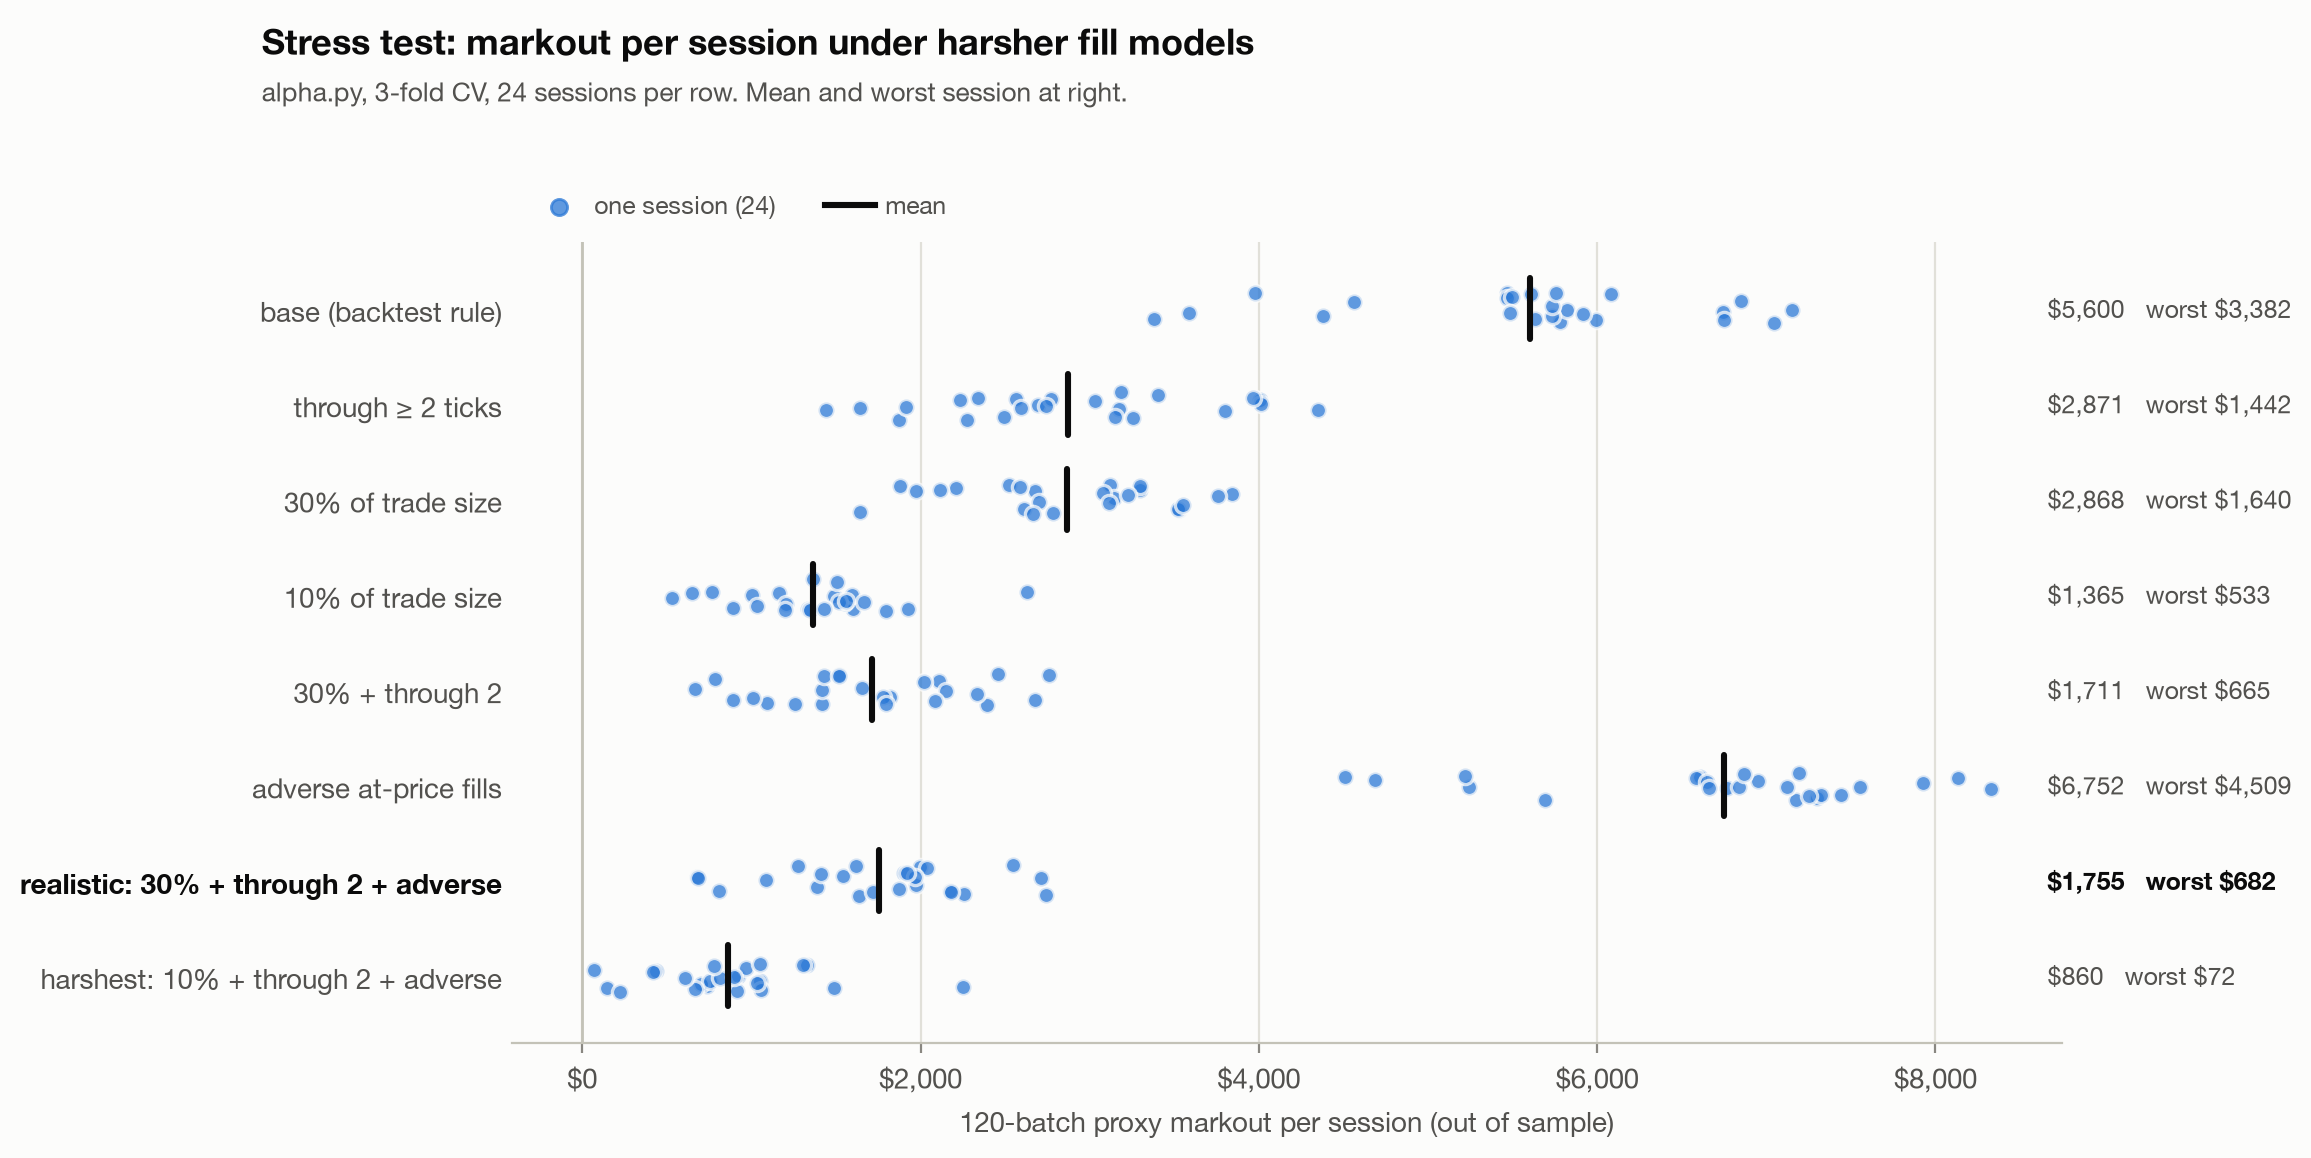
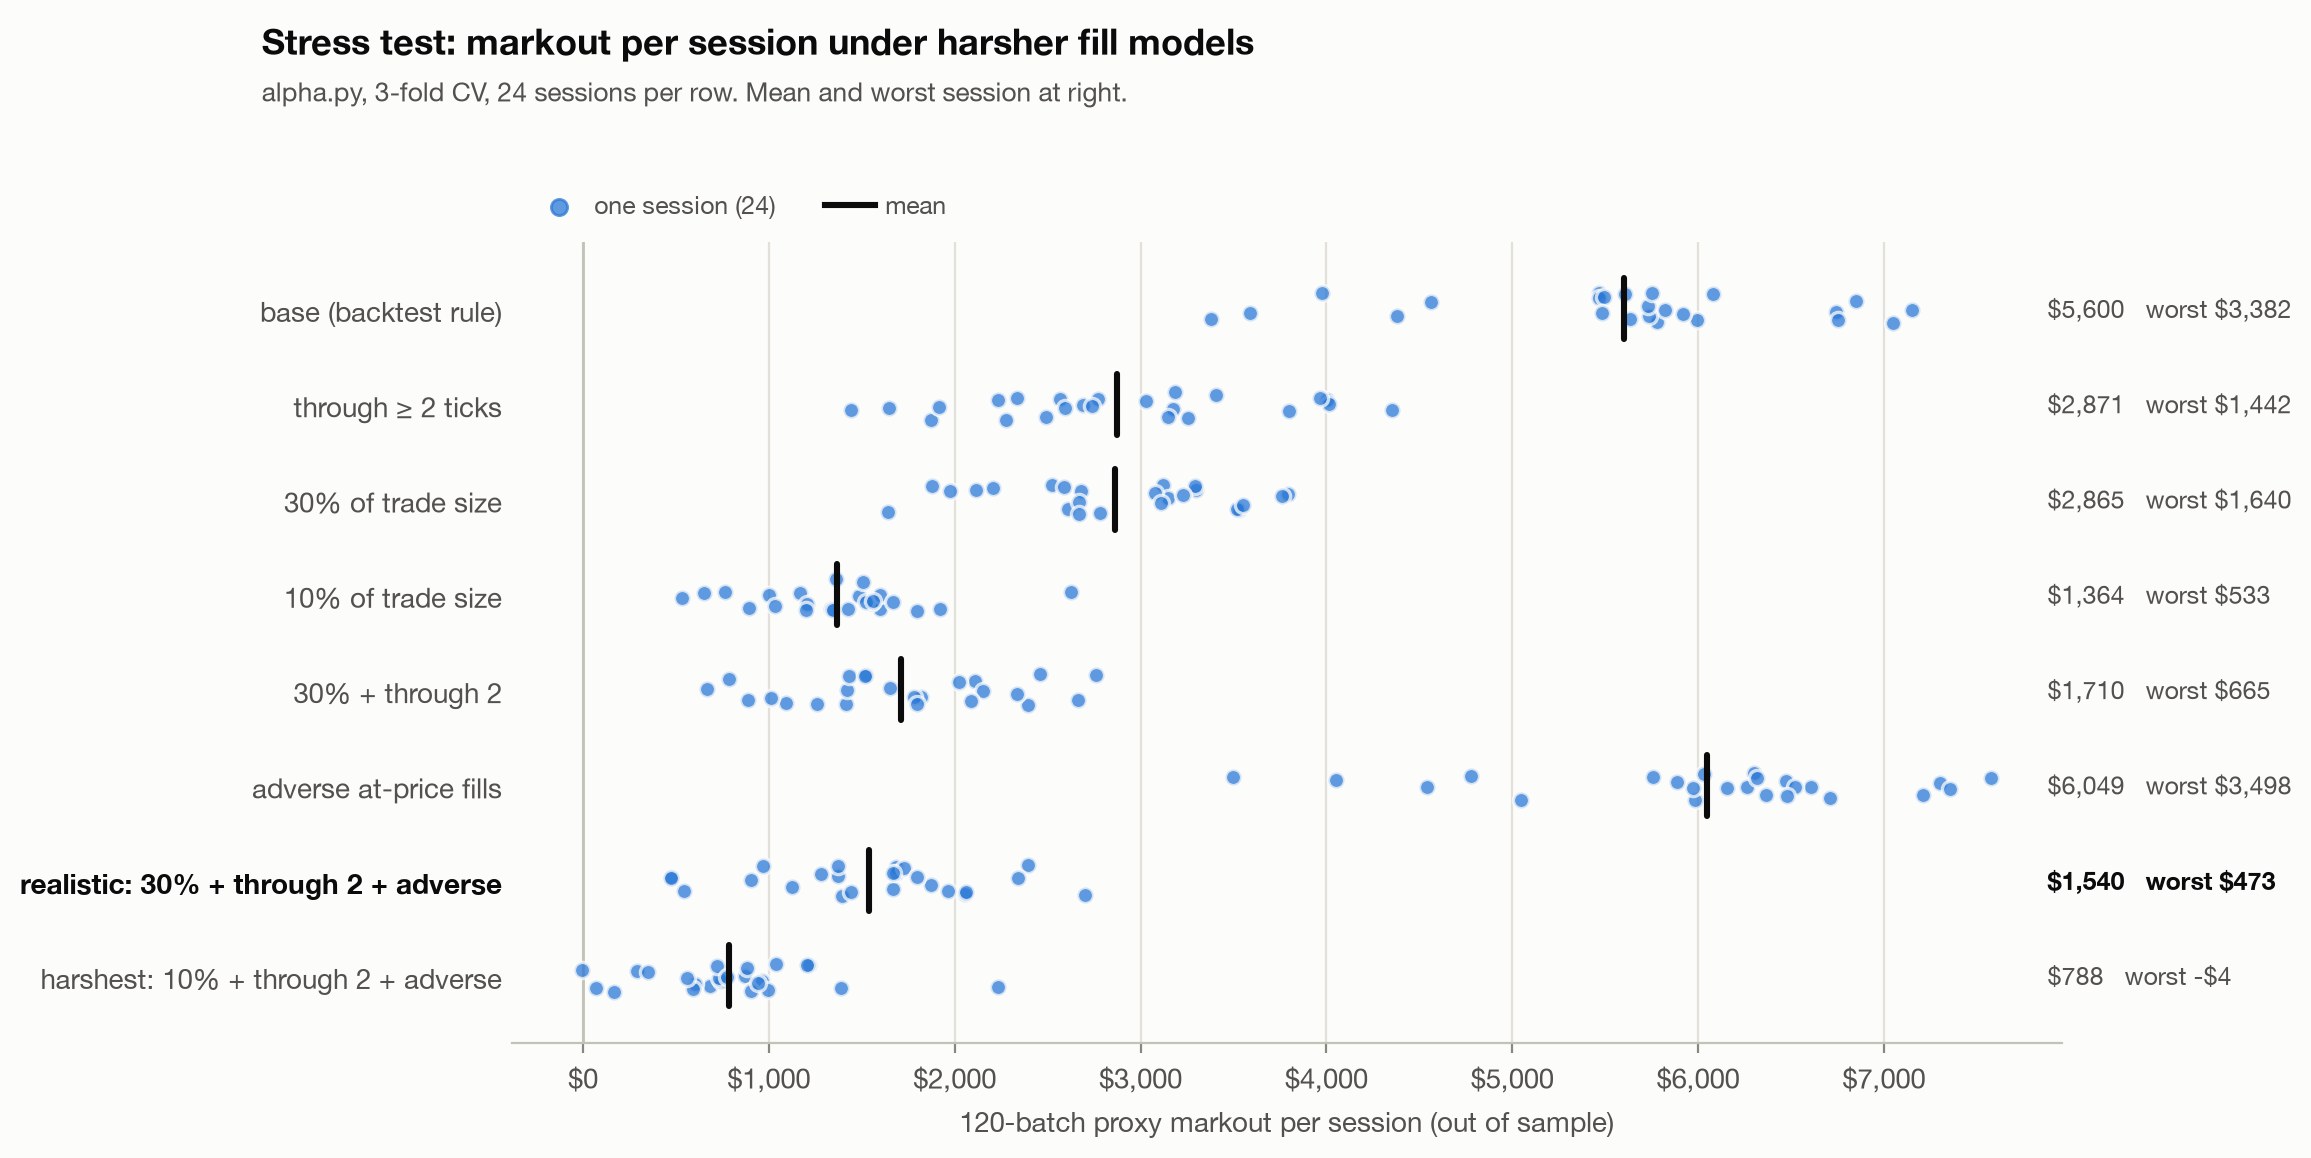
Update 6 file(s)

diff --git a/research/REPORT.md b/research/REPORT.md
@@ -10,7 +10,7 @@ coefficients fitted without it (3 folds of 8 sessions, as in `final_cv.py`). The
 | | before (v2) | after | verdict |
 |---|---|---|---|
 | Base backtest fill rule | $5,600 (worst $3,382) | $5,600 (worst $3,382) | unchanged |
-| Realistic stress (30% of size, 2 ticks through, adverse) | $1,540 (worst $473) | $1,540 (worst $473) | unchanged |
+| Realistic stress (30% of size, 2 ticks through, adverse) | $1,540 (worst $473) | $1,540 (worst $473) | unchanged; **about $1,000 after removing look-ahead** (section 2) |
 | Synthetic news, market reprices instantly | $5,137 (worst $3,063) | **$5,387** (worst $3,115) | +$249 |
 | Synthetic news, reprices over 10 s | $5,391 (worst $3,441) | **$5,455** (worst $3,492) | +$64 |
 | Synthetic news, reprices over 30 s | $5,500 (worst $3,474) | $5,461 (worst $3,301) | −$39 |
@@ -23,7 +23,9 @@ coefficients fitted without it (3 folds of 8 sessions, as in `final_cv.py`). The
    evaluation sessions, picks `make_edge` 2.0 in all three folds. Out of sample that gains only $9
    under realistic stress, which is noise, so the defaults are unchanged.
 3. **The stress test was not harsh enough.** Its "adverse" option made more money than the base
-   case. Fixed: realistic-scenario markout fell from $1,755 to $1,540 per session.
+   case. Fixed: realistic-scenario markout fell from $1,755 to $1,540 per session. Even fixed, it
+   leaks future prices into our inventory. Without that leak the realistic figure is **about
+   $1,000 per session**, and the harshest scenario's worst session is −$4.
 4. **News is now handled better:** jumps no longer pass for momentum, and the forecast is capped.
    This changes nothing without news and adds up to $249 per session with it. It loses a little
    when the market reprices slowly (see open issues).
@@ -73,7 +75,36 @@ mid moved less than our distance to it), so "adverse" alone scored **more** than
 $5,600). Now the fill counts only if the mid 120 batches later is *past our price*: a real
 pick-off, always a losing fill.
 
-STRESS_TABLE
+alpha.py (identical to v2 without news), 24 out-of-sample sessions, `research/chart_data.py`:
+
+| scenario | $/session | worst session | shares/session | maker ¢/share |
+|---|---|---|---|---|
+| base (backtest rule) | $5,600 | $3,382 | 287k | 1.93 |
+| trade must print 2 ticks through | $2,871 | $1,442 | 142k | 1.96 |
+| we get 30% of each trade's size | $2,865 | $1,640 | 136k | 2.02 |
+| we get 10% | $1,364 | $533 | 56k | 2.11 |
+| 30% + 2 ticks through | $1,710 | $665 | 74k | 2.13 |
+| adverse at-price fills only | $6,049 | $3,498 | 352k | 1.69 |
+| **realistic: 30% + 2 ticks + adverse** | **$1,540** | **$473** | 104k | 1.30 |
+| harshest: 10% + 2 ticks + adverse | $788 | **−$4** | 44k | 1.25 |
+
+(Before the fix, realistic was $1,755 and adverse alone $6,752.)
+
+**Even fixed, "adverse" flatters the strategy, because it leaks the future.** The rule decides a
+pick-off by looking at the mid 120 batches ahead. Every forced fill therefore tells the strategy
+where the price is going, and the inventory skew then moves its quotes the right way. The fills
+split as follows (`at price` = filled on a print exactly at our price):
+
+| realistic scenario, per session | at-price fills | all other fills | total |
+|---|---|---|---|
+| without adverse (30% + 2 ticks) | $67 (1.50¢/sh) | $1,452 (2.17¢/sh) | $1,710 |
+| with adverse | **−$693** (−2.49¢/sh, 28k sh) | $2,000 (2.74¢/sh) | $1,540 |
+
+The pick-offs cost what they should, but the other fills gain $548 per session from information
+no real market would give. **A conservative realistic estimate is about $1,000 per session**
+($1,540 − $548). It is still positive, but the worst sessions would be near zero. Being picked off
+does carry information in a real market too, so the truth lies between the two figures. The rule
+cannot be made leak-free without making it not adverse; read "adverse" results as optimistic.
 
 ## 3. Strategy knobs: nested CV
 
@@ -178,9 +209,10 @@ Reproduce (from `research/`, with `../.venv/bin/python`): `overfit.py`, `iterate
 
 ## 7. Open issues, in priority order
 
-1. **Volume share.** Stress scenarios keep 25–35% of the base dollars, and per-share edge holds
-   better than volume. Live fill share is the biggest unknown. Check maker ¢/share in R1's report
-   first, before anything else.
+1. **Volume share and adverse selection.** Realistic stress keeps about 18–28% of the base
+   dollars ($1,000–$1,540 of $5,600). Pick-offs cost about 2.5¢ per share, more than the whole
+   maker edge. Live fill share and pick-off rate are the biggest unknowns. Check maker ¢/share in
+   R1's report first, before anything else. If it is below about 1¢, widen `make_edge`.
 2. **Rebase timing vs repricing speed.** The rebase loses a little when the market takes about 30 s
    to reprice. Once real news is seen on the sandbox, measure how long repricing takes and set
    `news_pause` to cover it.

diff --git a/research/NOTES.md b/research/NOTES.md
@@ -70,3 +70,13 @@ through our own ask self-traded ($0.10 penalty); now the side that is getting ou
   sessions positive. The baseline was $5,291/session, worst $3,215. Maker markout changed from
   1.96¢ to 1.93¢ per share, so the dollar gain comes from higher filled volume, not higher unit
   edge. Recheck under the completed stress run before relying on the stressed result.
+
+## 2026-11-05 iteration: overfitting, stress fix, news
+Full write-up: `research/REPORT.md`. In short: the model's in-sample R² is about 0.02 above
+out-of-sample; a scaled ridge with nested-CV penalty raised out-of-sample R² but lost about $57 per
+session under realistic stress, so the coefficients are unchanged. Nested CV of `make_edge` /
+`size_scale` / `take_edge` confirms the defaults (the +$9 for `make_edge` 2.0 is noise). The
+stress test's adverse rule now fills only real pick-offs: realistic is $1,540 per session, and about
+$1,000 after removing the rule's look-ahead. `alpha.py` gained `FAIR_CAP` and a news rebase (+$64 to
++$249 per session on synthetic news; −$39 if repricing takes 30 s). Previous version:
+`strategies/archive/alpha_v2.py`. The earlier figures above ($1,755 realistic) predate the fix.
